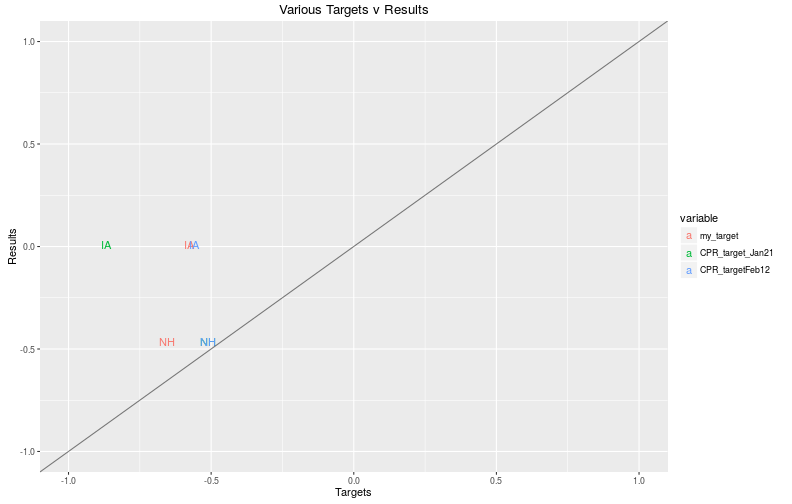
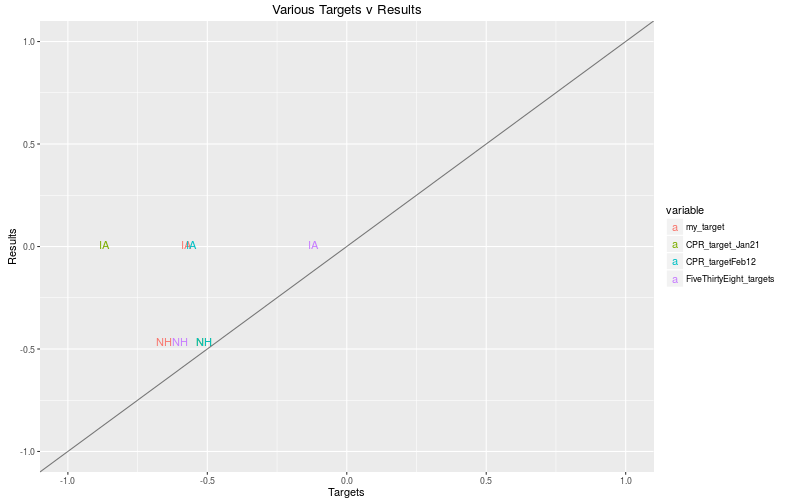
Added FiveThirtyEight actual targets

diff --git a/targets.md b/targets.md
@@ -17,5 +17,6 @@ Arbitrarely, positive indicates "Clinton-ness", 0 is neutral and negative is "Sa
 The targets used are:
 
 - [Cook Political Report, Jan 21](http://cookpolitical.com/story/9179).
+- [Cook Political Report, Feb 12](http://cookpolitical.com/story/9258).
 - [my first attempt]({% post_url 2016-02-15-targets---FiveThirtyEight-edition %}) (`white*2012 Democratic vote share`)
-- more to come soon!
+- [FiveThirtyEight's targets](http://fivethirtyeight.com/features/bernie-sanderss-path-to-the-nomination/) (`white*2012 Democratic vote share`)
